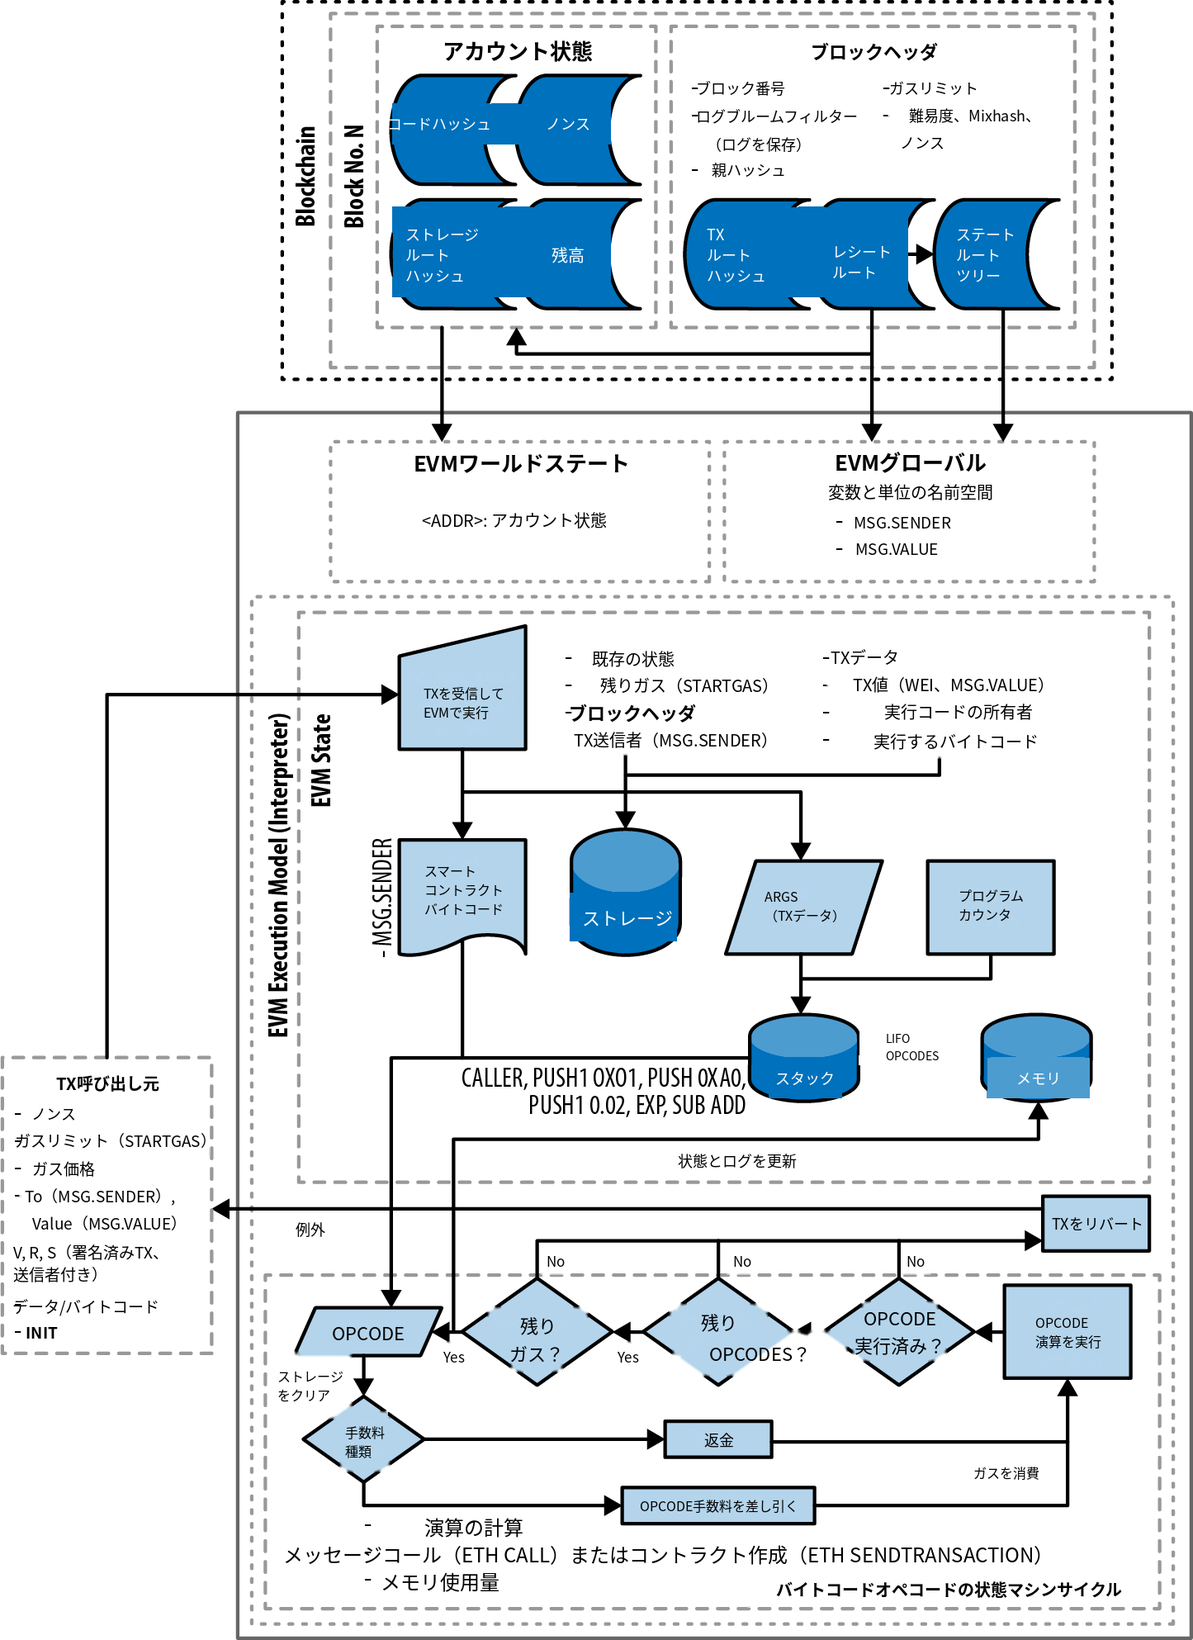
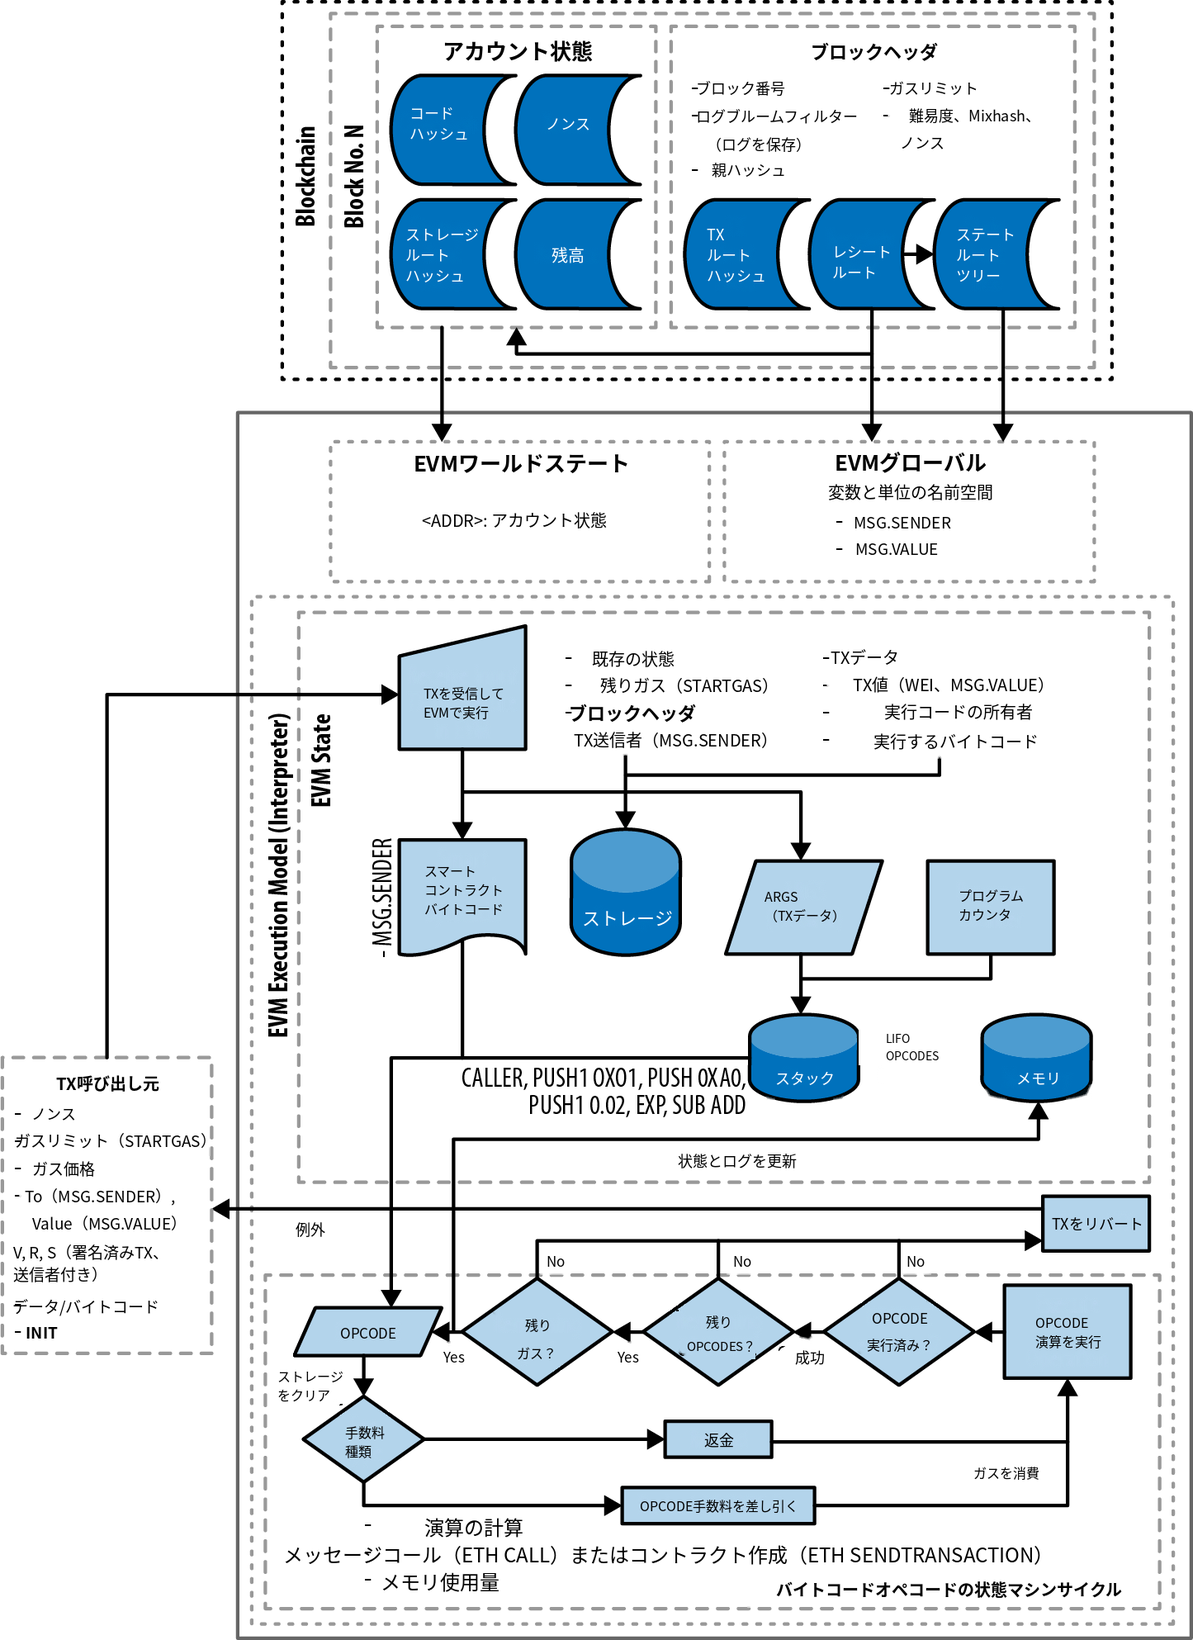
fix(ch14-images): maet_1401 の枠線途切れ・にじみ・文字はみ出しを修正
第14章 maet_1401（EVM 実行モデル図）の図表ローカライズ品質を改善。

translate_image.py:
- mask_mode "bright" を追加（濃い青ボックス上の白字をマスク）
- 2 段階 inpaint（線を先に消してから文字を inpaint）で枠線色の
  にじみ（smudge）を防止
- edge_mask（暗ピクセル − 文字マスク）ベースの枠線復元に変更
- 水色塗り図形の外周枠線を検出して復元対象に追加し、文字に融合して
  途切れた枠線も原本どおりの太さで復元
- ハードマスクの再塗装色から白黒を除外して塗り色だけの中央値を取得
- extra_text_regions で text_offset_x/y をサポート

maet_1401.json:
- 青シリンダーの白字を bright マスク + extra_text_regions 方式に変更
- ダイヤモンド／パラレログラムのフォントを縮小しはみ出しを解消
- OPCODE / OPCODES は原文保持（Latin 技術用語）
- OCR が取りこぼした「成功（Success）」ラベルを追加

diff --git a/scripts/translate_image.py b/scripts/translate_image.py
@@ -25,7 +25,8 @@ Usage:
         "bold": true,           // (省略可) ヒラギノ W6 を使う
         "font_size": 22,        // (省略可) フォントサイズを明示指定（自動縮小無効）
         "size_group": "steps",  // (省略可) 同グループは bbox 高さ中央値でサイズ統一
-        "group": "step1"        // (省略可) 複数 OCR 領域を 1 つの翻訳にマージ
+        "group": "step1",       // (省略可) 複数 OCR 領域を 1 つの翻訳にマージ
+        "mask_mode": "bright"   // (省略可) "bright" で明るい文字（青地の白字等）をマスク
       },
       // ja=null は「テキストを残す」preserve（マスクから除外）
       "Web3": {"ja": null},
@@ -91,6 +92,13 @@ def build_mask(image_path: str, regions: list[dict], pad: int = 2) -> np.ndarray
 
     旧実装は `gray < 180` を bbox 全体に適用していたため、bbox 内に侵入した
     枠線や矢印まで削除していた。連結成分フィルターでこれを防ぐ。
+
+    region["mask_mode"]:
+      - "dark"（既定）: 暗い文字（明るい背景の上の黒字）を対象にする
+      - "bright"      : 明るい文字（青などの濃い塗りの上の白字）を対象にする。
+                        塗り内部の白字を消すとき用。横線/縦線フィルターは無効化し
+                        （単色塗りの内部に保護すべき枠線は無いため）、複数行テキストの
+                        各行が「横線」と誤判定されて残るのを防ぐ。
     """
     img_cv = cv2.imread(image_path)
     gray = cv2.cvtColor(img_cv, cv2.COLOR_BGR2GRAY)
@@ -105,83 +113,139 @@ def build_mask(image_path: str, regions: list[dict], pad: int = 2) -> np.ndarray
         if rh <= 0 or rw <= 0:
             continue
 
+        bright = region.get("mask_mode") == "bright"
         roi = gray[y1:y2, x1:x2]
-        bin_dark = (roi < 180).astype(np.uint8)
+        bin_fg = (roi > 170 if bright else roi < 180).astype(np.uint8)
 
-        n_labels, labels, stats, _ = cv2.connectedComponentsWithStats(bin_dark, 4)
-        char_mask = np.zeros_like(bin_dark)
+        n_labels, labels, stats, _ = cv2.connectedComponentsWithStats(bin_fg, 4)
+        char_mask = np.zeros_like(bin_fg)
 
         for i in range(1, n_labels):
             _, _, cw, ch_, area = stats[i]
             if area < 3:
                 continue
             aspect = max(cw, ch_) / max(1, min(cw, ch_))
-            if cw >= rw * 0.85 and ch_ <= rh * 0.35:
-                continue  # 横線
-            if ch_ >= rh * 0.85 and cw <= rw * 0.35:
-                continue  # 縦線
+            if not bright:
+                if cw >= rw * 0.85 and ch_ <= rh * 0.35:
+                    continue  # 横線
+                if ch_ >= rh * 0.85 and cw <= rw * 0.35:
+                    continue  # 縦線
+                # 枠線（対角線含む）の保護: 連結成分を最小外接矩形で評価し、
+                # 細長い線分（ダイヤモンドの斜辺・矢印・枠が文字 bbox を掠める
+                # 短い線分）と、疎な線分クラスタ（枠の頂点）をマスクから除外。
+                # 文字は外接矩形が太く充填率も高いので誤除外されない。
+                ys_i, xs_i = np.where(labels == i)
+                (_, (mw, mh), _) = cv2.minAreaRect(
+                    np.column_stack([xs_i, ys_i]).astype(np.float32))
+                thin = min(mw, mh)
+                extent = area / max(1, cw * ch_)
+                elong = max(mw, mh) / max(1.0, thin)
+                if thin <= 5.5 and extent <= 0.42 and elong >= 2.2 and max(cw, ch_) >= 8:
+                    continue  # 細い線分（対角線含む）
+                if extent <= 0.20 and area >= 200 and max(cw, ch_) >= 45:
+                    # 線分クラスタ（枠線に英字が融合した連結成分）。Hough で
+                    # 直線部分（枠線）を検出して保護し、直線でない塊（融合した
+                    # 文字）だけをマスクに残す。
+                    comp = (labels == i).astype(np.uint8)
+                    line_part = np.zeros_like(comp)
+                    hl = cv2.HoughLinesP(comp * 255, 1, np.pi / 180,
+                                         threshold=30, minLineLength=30, maxLineGap=4)
+                    if hl is not None:
+                        for lx1, ly1, lx2, ly2 in hl[:, 0]:
+                            cv2.line(line_part, (lx1, ly1), (lx2, ly2), 1, 7)
+                    char_mask[(comp & (1 - line_part)) == 1] = 1
+                    continue
             if aspect > 12:
                 continue  # 細長い線
             if area > rh * rw * 0.5:
                 continue  # 巨大な塗りつぶし
             char_mask[labels == i] = 1
 
-        # アンチエイリアス端カバーの軽い膨張のみ（旧 iterations=2 → 1）
+        # アンチエイリアス端カバーの膨張（bright は白字ハロー除去のため強め）
         kernel = np.ones((3, 3), np.uint8)
-        char_mask = cv2.dilate(char_mask, kernel, iterations=1)
+        char_mask = cv2.dilate(char_mask, kernel, iterations=2 if bright else 1)
         mask[y1:y2, x1:x2] = np.maximum(mask[y1:y2, x1:x2], char_mask * 255)
 
     return mask
 
 
-def inpaint_image(image_path: str, mask: np.ndarray, radius: int = 3) -> np.ndarray:
-    img_cv = cv2.imread(image_path)
-    return cv2.inpaint(img_cv, mask, radius, cv2.INPAINT_TELEA)
+def build_edge_mask(gray: np.ndarray, text_mask: np.ndarray,
+                    dark_thresh: int = 80) -> np.ndarray:
+    """図形の線（枠線・矢印・アイコン）のマスク(0/255)を返す。
+
+    暗いピクセル (gray < dark_thresh) のうち、文字マスク（+1px 膨張）に
+    含まれないものを「線」とみなす。青系の塗り (gray~88) を拾わないよう
+    閾値は低め。連結成分フィルターを通り抜けて char マスクに紛れ込んだ
+    線も、ここでは text_mask 側にしか入らないため二重には数えない。
+    """
+    dark = (gray < dark_thresh).astype(np.uint8) * 255
+    text = cv2.dilate(text_mask, np.ones((3, 3), np.uint8), iterations=1)
+    return cv2.bitwise_and(dark, cv2.bitwise_not(text))
+
+
+def inpaint_two_pass(img_cv: np.ndarray, text_mask: np.ndarray,
+                     edge_mask: np.ndarray, radius: int = 3) -> np.ndarray:
+    """枠線色のにじみを防ぐ 2 段階 inpaint。
+
+    1st pass: 線(edge_mask)を inpaint して消した画像を作る。
+    2nd pass: 線のない画像の上で文字(text_mask)を inpaint する。
+    枠線に隣接・融合した文字を消すとき、TELEA が枠線の暗色を文字跡へ
+    にじませる（smudge）のを防ぐ。線は後段で原本から復元する。
+    """
+    noline = cv2.inpaint(img_cv, edge_mask, radius, cv2.INPAINT_TELEA)
+    return cv2.inpaint(noline, text_mask, radius, cv2.INPAINT_TELEA)
 
 
 def restore_borders(
-    original_path: str,
+    original: np.ndarray,
     inpainted: np.ndarray,
-    detections: list[dict],
-    dark_thresh: int = 100,
-    text_pad: int = 8,
+    edge_mask: np.ndarray,
     protect_boxes: list = None,
 ) -> np.ndarray:
-    """Inpainting でぼけた枠線・矢印を原本から復元する。
+    """図形の線(edge_mask)を原本からシャープに復元する。
 
-    原本の暗いピクセル (gray < dark_thresh) のうち、OCR テキスト bbox の
-    外側にあるものだけを inpainted 画像に上書きコピーする。
-
-    protect_boxes: __extra_mask_boxes__ など、復元を抑止したい領域（OCR が
-    検出できなかった文字（italic I、em ダッシュ等）を再描画しないため）。
+    edge_mask は「暗いピクセル − 文字マスク」なので、文字を巻き込まずに
+    枠線・矢印だけを原本の状態へ戻せる。protect_boxes 内は復元しない。
     """
-    orig = cv2.imread(original_path)
-    gray = cv2.cvtColor(orig, cv2.COLOR_BGR2GRAY)
-    h, w = gray.shape
-
-    # テキスト除外ゾーン（OCR bbox + padding）
-    text_zone = np.zeros((h, w), dtype=np.uint8)
-    for det in detections:
-        x1, y1, x2, y2 = det["box"]
-        x1 = max(0, x1 - text_pad)
-        y1 = max(0, y1 - text_pad)
-        x2 = min(w, x2 + text_pad)
-        y2 = min(h, y2 + text_pad)
-        text_zone[y1:y2, x1:x2] = 1
+    h, w = original.shape[:2]
+    border = edge_mask.copy()
     for box in (protect_boxes or []):
         x1, y1, x2, y2 = box
-        x1 = max(0, x1); y1 = max(0, y1)
-        x2 = min(w, x2); y2 = min(h, y2)
-        text_zone[y1:y2, x1:x2] = 1
-
-    # 枠線マスク: 暗いピクセル & テキスト外
-    border = ((gray < dark_thresh).astype(np.uint8)) & (1 - text_zone)
-    kernel = np.ones((2, 2), np.uint8)
-    border = cv2.dilate(border, kernel, iterations=1)
-
+        border[max(0, y1):min(h, y2), max(0, x1):min(w, x2)] = 0
     result = inpainted.copy()
-    result[border == 1] = orig[border == 1]
+    result[border > 0] = original[border > 0]
     return result
+
+
+def build_shape_outline_mask(image_bgr: np.ndarray) -> np.ndarray:
+    """水色塗り図形の外周（黒枠線）のマスク(0/255)を返す。
+
+    edge_mask に OR して使う。文字に融合して連結成分フィルターを通り抜けた
+    枠線断片も、これにより restore（原本復元）対象に含まれる。原本ピクセルを
+    そのまま戻すので、枠線は原本どおりの太さで途切れなく復元される。
+    """
+    h, w = image_bgr.shape[:2]
+    b = image_bgr[..., 0].astype(int)
+    g = image_bgr[..., 1].astype(int)
+    r = image_bgr[..., 2].astype(int)
+    fill = ((r > 150) & (r < 228) & (g > 185) & (b > 205) & (b > r + 8)).astype(np.uint8)
+    zero = np.zeros((h, w), dtype=np.uint8)
+    if int(fill.sum()) < 3000:
+        return zero
+    # 大きな塗り領域だけを図形とみなす（濃い青シリンダー内の白字アンチ
+    # エイリアスのような小さな水色斑点を除外する）
+    n_lab, labels, stats, _ = cv2.connectedComponentsWithStats(fill, 8)
+    big = np.zeros_like(fill)
+    for i in range(1, n_lab):
+        if stats[i, cv2.CC_STAT_AREA] > 3000:
+            big[labels == i] = 1
+    if not big.any():
+        return zero
+    # closing で内側の文字穴を埋めて塗り本体に → その外側バンド ∩ 暗ピクセル
+    solid = cv2.morphologyEx(big, cv2.MORPH_CLOSE, np.ones((25, 25), np.uint8))
+    band = cv2.dilate(solid, np.ones((3, 3), np.uint8), iterations=8) & (1 - solid)
+    gray = cv2.cvtColor(image_bgr, cv2.COLOR_BGR2GRAY)
+    return ((band == 1) & (gray < 110)).astype(np.uint8) * 255
 
 
 def compute_size_groups(regions: list[dict]) -> dict:
@@ -313,6 +377,7 @@ def translate_image(image_path: str, translation_map: dict, preview: bool = Fals
             "text_offset_x": matched.get("text_offset_x", 0),
             "text_offset_y": matched.get("text_offset_y", 0),
             "color": matched.get("color"),
+            "mask_mode": matched.get("mask_mode"),
         })
         print(f"       '{det['text']}' → '{matched['ja']}'")
 
@@ -331,6 +396,7 @@ def translate_image(image_path: str, translation_map: dict, preview: bool = Fals
         text_offset_x = next((v.get("text_offset_x") for _, v in items if v.get("ja")), 0) or 0
         text_offset_y = next((v.get("text_offset_y") for _, v in items if v.get("ja")), 0) or 0
         color = next((v.get("color") for _, v in items if v.get("ja")), None)
+        mask_mode = next((v.get("mask_mode") for _, v in items if v.get("ja")), None)
         if ja:
             regions.append({
                 "box": merged_box,
@@ -342,6 +408,7 @@ def translate_image(image_path: str, translation_map: dict, preview: bool = Fals
                 "text_offset_x": text_offset_x,
                 "text_offset_y": text_offset_y,
                 "color": color,
+                "mask_mode": mask_mode,
             })
             print(f"       (merged '{gname}') → '{ja}'")
 
@@ -355,6 +422,9 @@ def translate_image(image_path: str, translation_map: dict, preview: bool = Fals
             "size_group": er.get("size_group"),
             "font_size": er.get("font_size"),
             "color": er.get("color"),
+            "mask_mode": er.get("mask_mode"),
+            "text_offset_x": er.get("text_offset_x", 0),
+            "text_offset_y": er.get("text_offset_y", 0),
         })
         print(f"       (extra) → '{er['ja']}'")
 
@@ -381,8 +451,16 @@ def translate_image(image_path: str, translation_map: dict, preview: bool = Fals
         x1, y1, x2, y2 = box
         mask[y1:y2, x1:x2] = 0
 
-    print("[3/4] Inpainting (TELEA)")
-    inpainted = inpaint_image(image_path, mask)
+    print("[3/4] Inpainting (TELEA, 2-pass)")
+    img_cv = cv2.imread(image_path)
+    gray_full = cv2.cvtColor(img_cv, cv2.COLOR_BGR2GRAY)
+    # 図形の線（枠線・矢印）: 暗ピクセル − 文字マスク。先に消してから文字を
+    # inpaint することで枠線色のにじみを防ぎ、最後に原本から復元する。
+    edge_mask = build_edge_mask(gray_full, mask)
+    # 水色塗り図形の枠線を edge_mask に加える。文字に融合して途切れた枠線も
+    # 原本どおりの太さで確実に復元される。
+    edge_mask = cv2.bitwise_or(edge_mask, build_shape_outline_mask(img_cv))
+    inpainted = inpaint_two_pass(img_cv, mask, edge_mask)
     # extra_mask_boxes (hard) は inpaint 後に各 box の周辺中央値で再塗装
     # （inpaint が複雑な領域で失敗した残骸を確実に消す）
     if extra_mask_boxes:
@@ -395,11 +473,17 @@ def translate_image(image_path: str, translation_map: dict, preview: bool = Fals
             sample[max(0, y1-sy1):y2-sy1, max(0, x1-sx1):x2-sx1] = 0
             sample_pixels = sample[sample.sum(axis=2) > 0]
             if len(sample_pixels) > 0:
+                # 枠線(黒)・余白(白)を除外し、塗り色だけの中央値を取る。
+                # box が枠線や図形端に近いと白黒が混じり中央値が濁るため。
+                s = sample_pixels.sum(axis=1)
+                mid = sample_pixels[(s > 90) & (s < 720)]
+                if len(mid) > len(sample_pixels) * 0.15:
+                    sample_pixels = mid
                 fill_color = np.median(sample_pixels, axis=0).astype(np.uint8)
                 inpainted[y1:y2, x1:x2] = fill_color
 
-    # 枠線・矢印の復元（inpainting で発生したボケを原本から上書き修復）
-    inpainted = restore_borders(image_path, inpainted, detections, protect_boxes=extra_mask_boxes)
+    # 枠線・矢印・図形の枠を原本からシャープに復元
+    inpainted = restore_borders(img_cv, inpainted, edge_mask, protect_boxes=extra_mask_boxes)
 
     print("[4/4] Drawing Japanese text")
     result = draw_translations(inpainted, regions)

diff --git a/.claude/skills/translate-image/SKILL.md b/.claude/skills/translate-image/SKILL.md
@@ -34,9 +34,9 @@ python3 -m venv /tmp/imgtools
 ## Approach: OCR + Inpainting
 
 1. **OCR**: EasyOCR が全テキストの位置・内容を自動検出
-2. **Mask (連結成分フィルター)**: 各 OCR bbox 内の「文字形状の連結成分」だけマスクし、横長/縦長/極端なアスペクト比の連結成分（= 矢印・枠線・直線）はマスクから除外して保護する
-3. **Inpainting**: OpenCV TELEA でテキスト部分の背景を復元
-4. **Border Restoration**: 原本の枠線・矢印ピクセル（gray < 100）を inpainting 後の画像に上書き復元する。OCR テキスト bbox（+8px padding）内は除外して英文残骸の混入を防ぐ
+2. **Mask (連結成分フィルター)**: 各 OCR bbox 内の「文字形状の連結成分」だけマスクし、横長/縦長/極端なアスペクト比の連結成分（= 矢印・枠線・直線）はマスクから除外して保護する。対角の細線（ダイヤモンドの斜辺など）も最小外接矩形（thin/extent/elong）で検出して除外する
+3. **2-pass Inpainting**: まず「線（暗ピクセル − 文字マスク）」を inpaint で消した画像を作り、その上で文字を inpaint する。枠線に隣接・融合した文字を消すとき、TELEA が枠線の暗色を文字跡へにじませる（smudge）のを防ぐ
+4. **Border Restoration**: 線マスク（暗ピクセル − 文字マスク）の位置を原本からそのまま復元し、枠線・矢印をシャープに戻す。文字マスク外なので英文残骸は混入しない。さらに単色（水色）塗り図形の外周枠線を検出して線マスクに OR することで、文字に融合して途切れた枠線も原本どおりの太さで復元する
 5. **Overlay**: 復元された背景の上に日本語テキストを描画
 
 ### 旧版（v1）の問題と v2 の対応
@@ -78,6 +78,7 @@ python3 -m venv /tmp/imgtools
 | `group` | OCR が分割検出した断片を 1 つの翻訳としてマージ（`ja` を持つ要素が代表） |
 | `text_offset_x` | 描画位置の水平オフセット（px）。正で右、負で左にずらす |
 | `text_offset_y` | 描画位置の垂直オフセット（px）。正で下、負で上にずらす |
+| `mask_mode` | マスク対象の文字色。既定 `"dark"`（明るい背景上の黒字）。`"bright"` で濃い塗り（青ボックス等）の上の白字をマスクする。`bright` 時は横線/縦線フィルターを無効化（単色塗り内部に保護すべき枠線は無いため、複数行テキストの各行が「横線」と誤判定されるのを防ぐ） |
 
 ### 特殊キー（マスク制御）
 
@@ -154,6 +155,9 @@ for bbox, text, conf in r.readtext('src/images/ch11/maet_1102.png'):
 | 症状 | 原因 | 対処 |
 |---|---|---|
 | 矢印・枠線が灰色化 / 消失 | bbox 内の線が連結成分フィルターで除外されない | `aspect > 8` を `> 5` に厳しくする、または `pad` を 0 に |
+| ダイヤモンド（菱形）の斜辺が消える / ぼける | 対角線は横線・縦線フィルターに掛からず文字として除去される | `build_mask` が最小外接矩形（thin/extent/elong）で対角の細線を検出して除外する。さらに 2-pass inpaint + 線マスク復元で枠線をシャープに戻す（自動対応済み） |
+| 翻訳テキストが Latin 技術用語（OPCODE 等）の場合に枠線へにじむ | 訳しても同じ綴りになる語をわざわざ消す必要がない | マップで `"ja": null`（preserve）にして原文を残す。masking しないので枠線に隣接していてもにじみが出ない |
+| 青ボックス等の塗りの上の白字が消えず、`__extra_mask_boxes__` で消すとボックスの枠線・形状まで潰れる | `__extra_mask_boxes__`（無条件の矩形塗装）が枠線・ノッチを越えて塗り潰す | 白字領域を `__extra_text_regions__` に登録し `mask_mode: "bright"` を付与する（白字だけを連結成分マスク → inpaint で塗り色復元）。当該領域は `__extra_mask_boxes__` から外す |
 | 枠線がボケている / 太さが変わる | inpainting がテキスト近傍の枠線まで平滑化した | `restore_borders()` が自動復元するが、OCR bbox と枠線が重なる場合は `__extra_preserve_boxes__` で枠線座標を明示保護する |
 | テキスト残骸の黒いドットが残る | 連結成分フィルターの最小面積閾値 (area < 3) で除外された微小ピクセル | `__extra_mask_boxes__`（unconditional）で該当領域を強制マスクする。`__extra_mask_boxes_soft__` では消えない |
 | 翻訳テキストが矢印や枠線に被る | 日本語テキストが英語より長く、描画位置が重なる | `text_offset_x` / `text_offset_y` で位置調整、または `font_size` を縮小する |
